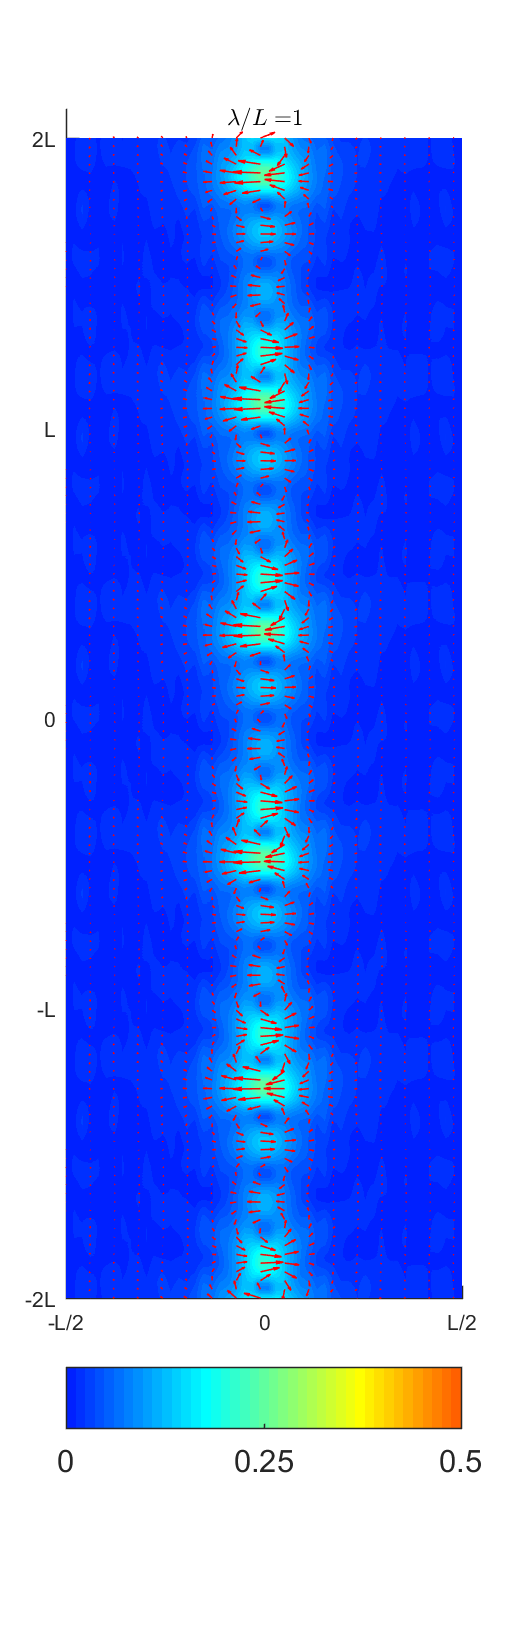
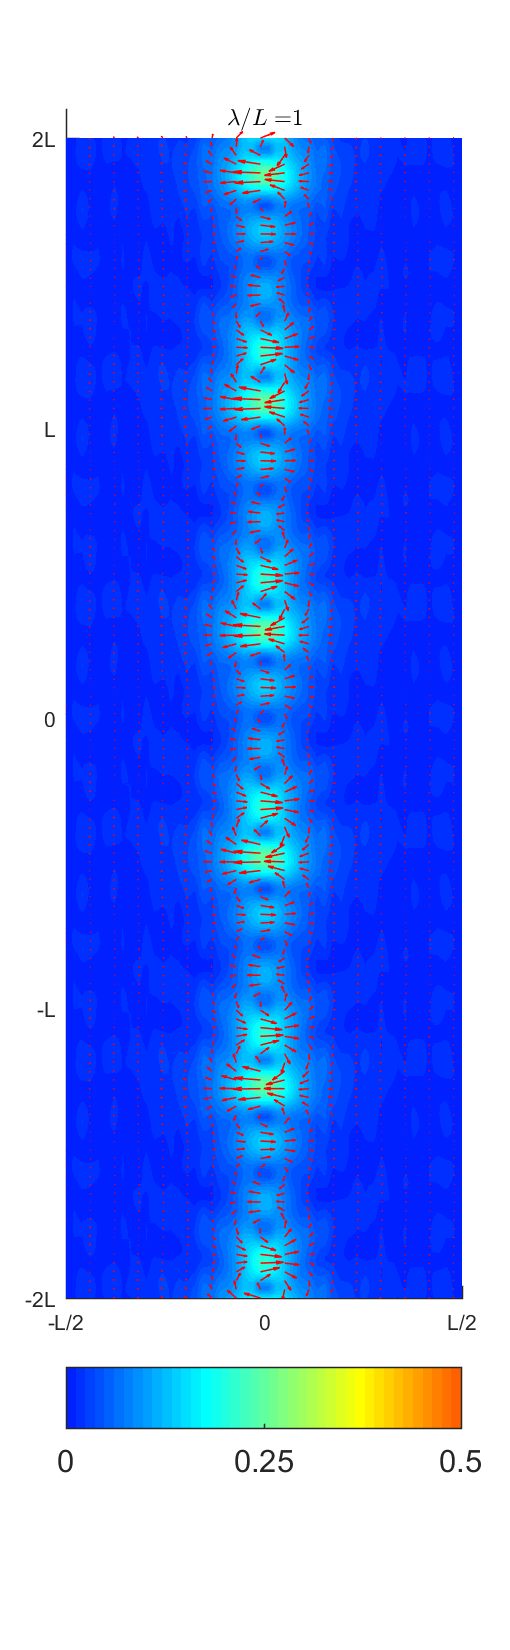
nesten ikke endring, bare fikler litt med matlab

diff --git a/Matlab/localCurrent.m b/Matlab/localCurrent.m
@@ -15,31 +15,31 @@ function I = localCurrent(x,y,theta,l,phi,option,lambda,system,alphaL,alphaR,h,s
     elseif strcmp(system,'Dwave')
         
         %%%%%%%%%%%%%%%%%%%%%%%%%%%%%%%%%%%%%%%%
-        deltaMax = sqrt(1+swave^2);
-        d = swave;
-        b = 2*theta;
-        cR = 2*alphaR;
-        cL = 2*alphaL;
-        chiRp = atan(d/cos(b-cR)) + pi*(cos(b-cR)<0);
-        chiRm = atan(d/cos(b+cR)) + pi*(cos(b+cR)<0);
-        chiLp = atan(d/cos(b-cL)) + pi*(cos(b-cL)<0);
-        chiLm = atan(d/cos(b+cL)) + pi*(cos(b+cL)<0);
-        numer_p = sqrt(cos(b+cL)^2+d^2)*sqrt(cos(b-cR)^2+d^2);
-        numer_m = sqrt(cos(b-cL)^2+d^2)*sqrt(cos(b+cR)^2+d^2);
-        denom_p = sqrt(cos(b+cL)^2+cos(b-cR)^2+d*d^2-2*numer_p*cos(chiRp+chiLm+phi-gamma));
-        denom_m = sqrt(cos(b-cL)^2+cos(b+cR)^2+d*d^2-2*numer_m*cos(chiRm+chiLp-phi+gamma));
-        ap = (1/deltaMax)*numer_p*sin(chiRp+chiLm+phi-gamma)/denom_p;
-        am = (1/deltaMax)*numer_m*sin(chiRm+chiLp-phi+gamma)/denom_p;
-        dap = (1/deltaMax)*numer_p*cos(chiRp+chiLm+phi-gamma)/denom_p-ap*numer_p*sin(chiRp+chiRm+phi-gamma)/denom_p^2;
-        dam = -(1/deltaMax)*numer_m*cos(chiRm+chiLp-phi+gamma)/denom_m-am*numer_m*sin(chiRm+chiRp-phi+gamma)/denom_m^2;
-        
-        Ip = -tanh(ap/2)*dap;
-        Im = -tanh(am/2)*dam;
-        I = Ip + Im;
+%         deltaMax = sqrt(1+swave^2);
+%         d = swave;
+%         b = 2*theta;
+%         cR = 2*alphaR;
+%         cL = 2*alphaL;
+%         chiRp = atan(d/cos(b-cR)) + pi*(cos(b-cR)<0);
+%         chiRm = atan(d/cos(b+cR)) + pi*(cos(b+cR)<0);
+%         chiLp = atan(d/cos(b-cL)) + pi*(cos(b-cL)<0);
+%         chiLm = atan(d/cos(b+cL)) + pi*(cos(b+cL)<0);
+%         numer_p = sqrt(cos(b+cL)^2+d^2)*sqrt(cos(b-cR)^2+d^2);
+%         numer_m = sqrt(cos(b-cL)^2+d^2)*sqrt(cos(b+cR)^2+d^2);
+%         denom_p = sqrt(cos(b+cL)^2+cos(b-cR)^2+d*d^2-2*numer_p*cos(chiRp+chiLm+phi-gamma));
+%         denom_m = sqrt(cos(b-cL)^2+cos(b+cR)^2+d*d^2-2*numer_m*cos(chiRm+chiLp-phi+gamma));
+%         ap = (1/deltaMax)*numer_p*sin(chiRp+chiLm+phi-gamma)/denom_p;
+%         am = (1/deltaMax)*numer_m*sin(chiRm+chiLp-phi+gamma)/denom_p;
+%         dap = (1/deltaMax)*(numer_p/denom_p)*(cos(chiRp+chiLm+phi-gamma)-numer_p/denom_p^2*sin(chiRp+chiLm+phi-gamma)^2);
+%         dam = -(1/deltaMax)*(numer_m/denom_m)*(cos(chiRm+chiLp-phi+gamma)+numer_m/denom_m^2*sin(chiRm+chiLp-phi+gamma)^2);
+%         
+%         Ip = -tanh(ap/2)*dap;
+%         Im = -tanh(am/2)*dam;
+%         I = Ip + Im;
         %%%%%%%%%%%%%%%%%%%%%%%%%%%%%%%%%%%%%%%%%%%%%
-%         E = abs(cos(2*theta))*cos(phi/2-gamma/2);
-%         dE = -0.5*abs(cos(2*theta))*sin(phi/2-gamma/2);
-%         I = -2*tanh(E/2)*dE;
+         E = abs(cos(2*theta))*cos(phi/2-gamma/2);
+         dE = -0.5*abs(cos(2*theta))*sin(phi/2-gamma/2);
+         I = -2*tanh(E/2)*dE;
         
         %%%%%%%%%%%%%%%%%%%%%%%%%%%%%%%%%%%%5
 %         %h = 0.001;

diff --git a/Matlab/plotCurrent.m b/Matlab/plotCurrent.m
@@ -8,7 +8,7 @@ alpha = 0;%0:pi/10:pi;
 dalpha = 0;
 alphaL = alpha;
 alphaR = alpha+dalpha;
-swave = 5;
+swave = 0;
 zeeman = 0.0075;
 
 phi = 0;
@@ -135,6 +135,7 @@ for k_alpha = 1:length(alpha)
         if(video == 0)
             filename1 = ['C:\Users\Anna\Documents\GitHub\MasterThesis\Matlab\Figures\' system '\Dist' num2str(option) '\Dist' num2str(option) '_l_0-' num2str(l*10) '_lambda_' num2str(floor(lambda(k))) '-' num2str(floor(100*(lambda(k)-floor(lambda(k))))) 'phi_pi-' floor(num2str(pi/phi)) '_alphaL-' strrep(num2str(alphaL),'.','-') '_alphaR-' strrep(num2str(alphaR),'.','-') '_h_' strrep(num2str(zeeman),'.','-') '_swave_' strrep(num2str(swave),'.','-')]; 
             %filename2 = ['C:\Users\Anna\Documents\GitHub\MasterThesis\Matlab\Figures\Dist' num2str(option) '\Matlab\Dist' num2str(option) '_l_0-' num2str(l*10) '_lambda_' num2str(floor(lambda(k))) '-' num2str(floor(100*(lambda(k)-floor(lambda(k))))) 'phi_pi-' floor(num2str(pi/phi))]; 
+            disp(filename1)
             print(fig,filename1,'-dpng');
             %print(filename1,'-dpng')
             %savefig(filename2)
